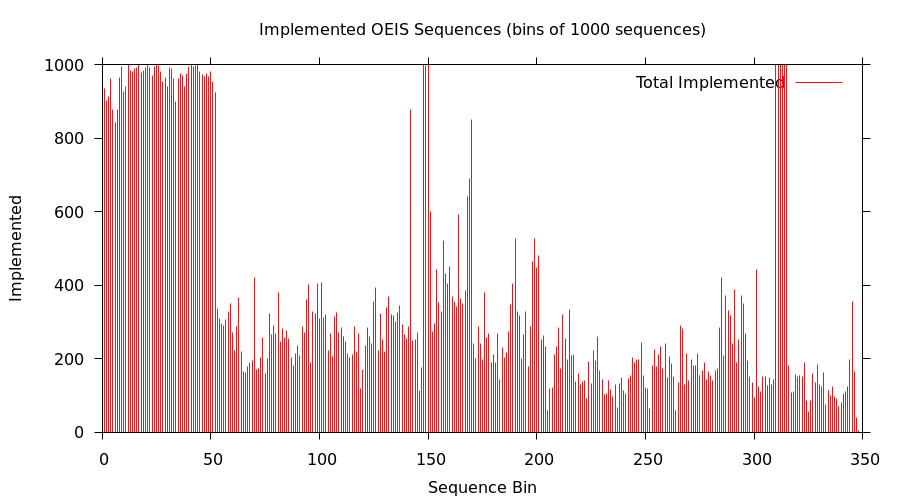
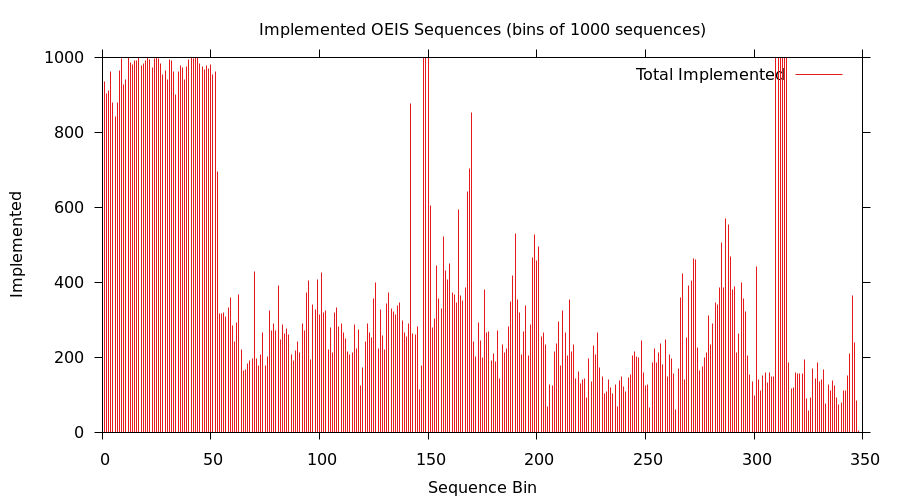
Graphs

diff --git a/src/irvine/oeis/a053/A053577.java b/src/irvine/oeis/a053/A053577.java
@@ -1,0 +1,24 @@
+package irvine.oeis.a053;
+
+import irvine.math.LongUtils;
+import irvine.math.z.Z;
+import irvine.oeis.Sequence;
+
+/**
+ * A053577.
+ * @author Sean A. Irvine
+ */
+public class A053577 implements Sequence {
+
+  private long mN = 1;
+
+  @Override
+  public Z next() {
+    while (true) {
+      final long t = ++mN - LongUtils.phi(mN);
+      if ((t & (t - 1)) == 0) {
+        return Z.valueOf(mN);
+      }
+    }
+  }
+}

diff --git a/src/irvine/oeis/a053/A053578.java b/src/irvine/oeis/a053/A053578.java
@@ -1,0 +1,24 @@
+package irvine.oeis.a053;
+
+import irvine.math.LongUtils;
+import irvine.math.z.Z;
+import irvine.oeis.Sequence;
+
+/**
+ * A053577.
+ * @author Sean A. Irvine
+ */
+public class A053578 implements Sequence {
+
+  private long mN = 1;
+
+  @Override
+  public Z next() {
+    while (true) {
+      final long t = ++mN - LongUtils.phi(mN);
+      if ((t & (t - 1)) == 0) {
+        return Z.valueOf(t);
+      }
+    }
+  }
+}
